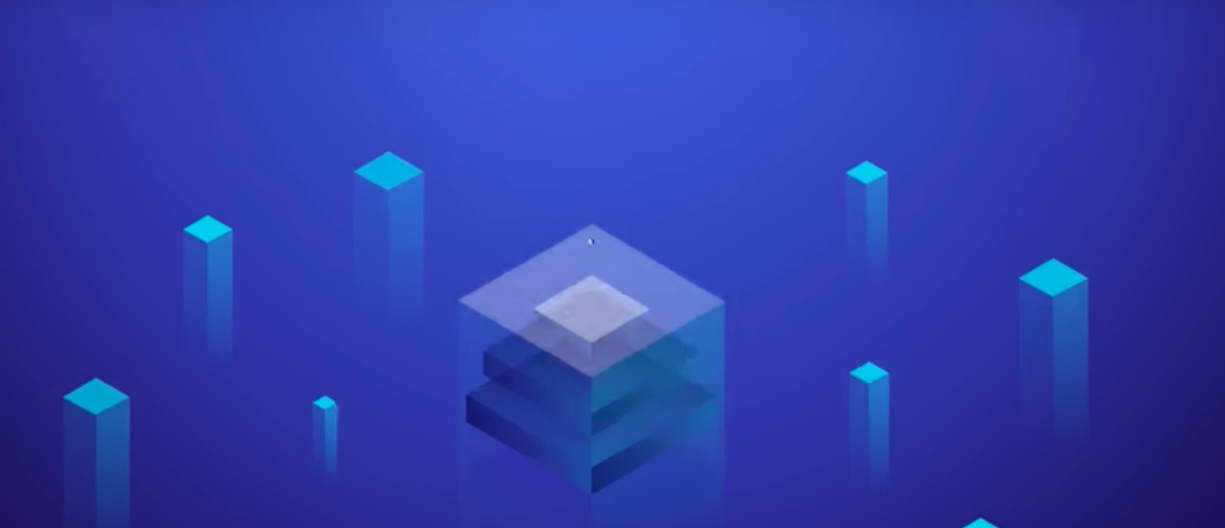
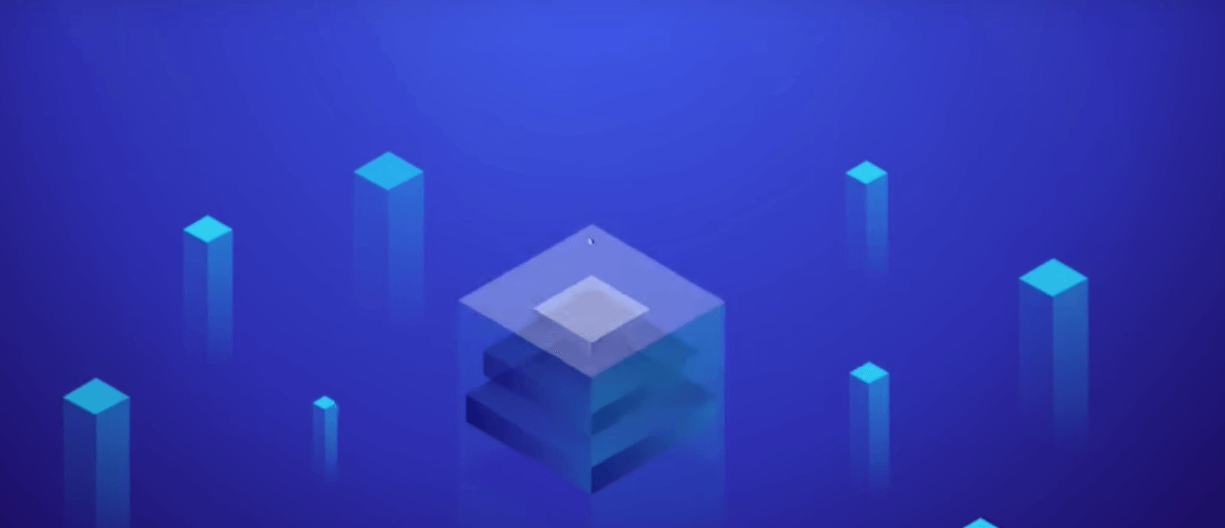
product page images size compressed

diff --git a/_includes/features.html b/_includes/features.html
@@ -8,7 +8,7 @@
 
 			<div class="col-sm-4">
 				<center>
-					<img src="/images/v2/container-native.svg" alt="source code management" class="feature-img">
+					<img src="/images/v2/container-native.png" alt="source code management" class="feature-img">
 				</center>
 				<div class="platform-integration-msg">
 				<h3>Container Native</h3>
@@ -18,7 +18,7 @@
 
 			<div class="col-sm-4">
 				<center>
-					<img src="/images/v2/connect-environments.svg" alt="Connect Environments" class="feature-img">
+					<img src="/images/v2/connect-environments.png" alt="Connect Environments" class="feature-img">
 				</center>
 				<div class="platform-integration-msg">
 				<h3>Connect Environments</h3>
@@ -28,7 +28,7 @@
 
 			<div class="col-sm-4">
 				<center>
-					<img src="/images/v2/pipeline.svg" alt="source code management" class="feature-img">
+					<img src="/images/v2/pipeline.png" alt="source code management" class="feature-img">
 				</center>
 				<div class="platform-integration-msg">
 				<h3>Deployment Pipeline</h3>
@@ -41,7 +41,7 @@
 
 			<div class="col-sm-4">
 				<center>
-					<img src="/images/v2/rollback.svg" alt="source code management" class="feature-img">
+					<img src="/images/v2/rollback.png" alt="source code management" class="feature-img">
 				</center>
 				<div class="platform-integration-msg">
 					<h3>Automatic rollback</h3>
@@ -51,7 +51,7 @@
 
 			<div class="col-sm-4">
 				<center>
-					<img src="/images/v2/gitops.svg" alt="Connect Environments" class="feature-img">
+					<img src="/images/v2/gitops.png" alt="Connect Environments" class="feature-img">
 				</center>
 				<div class="platform-integration-msg">
 					<h3>Incorporate Gitops</h3>
@@ -62,7 +62,7 @@
 			<div class="col-sm-4">
 				<center>
 					<!-- <img src="/images/v2/code-as-config.svg" alt="Code as configuration" class="feature-img"> -->
-					<img src="/images/v2/code-as-configuration.svg" alt="Code as configuration" class="feature-img">
+					<img src="/images/v2/code-as-configuration.png" alt="Code as configuration" class="feature-img">
 				</center>
 				<div class="platform-integration-msg">
 					<h3>Code as configuration</h3>
@@ -72,7 +72,7 @@
 			<div class="clearfix"></div><br><br>
 			<div class="col-sm-4">
 				<center>
-					<img src="/images/v2/git.svg" alt="source code management" class="feature-img">
+					<img src="/images/v2/git.png" alt="source code management" class="feature-img">
 				</center>
 				<div class="platform-integration-msg">
 				<h3>Git as Source Code</h3>
@@ -82,7 +82,7 @@
 
 			<div class="col-sm-4">
 				<center>
-					<img src="/images/v2/language-agnostic.svg" alt="language agnostic" class="feature-img">
+					<img src="/images/v2/language-agnostic.png" alt="language agnostic" class="feature-img">
 				</center>
 				<div class="platform-integration-msg">
 					<h3>Language Agnostic</h3>
@@ -92,7 +92,7 @@
 
 			<div class="col-sm-4">
 				<center>
-					<img src="/images/v2/platform-independent.svg" alt="Platform Independent" class="feature-img">
+					<img src="/images/v2/platform-independent.png" alt="Platform Independent" class="feature-img">
 				</center>
 				<div class="platform-integration-msg">
 					<h3>Platform Independent</h3>
